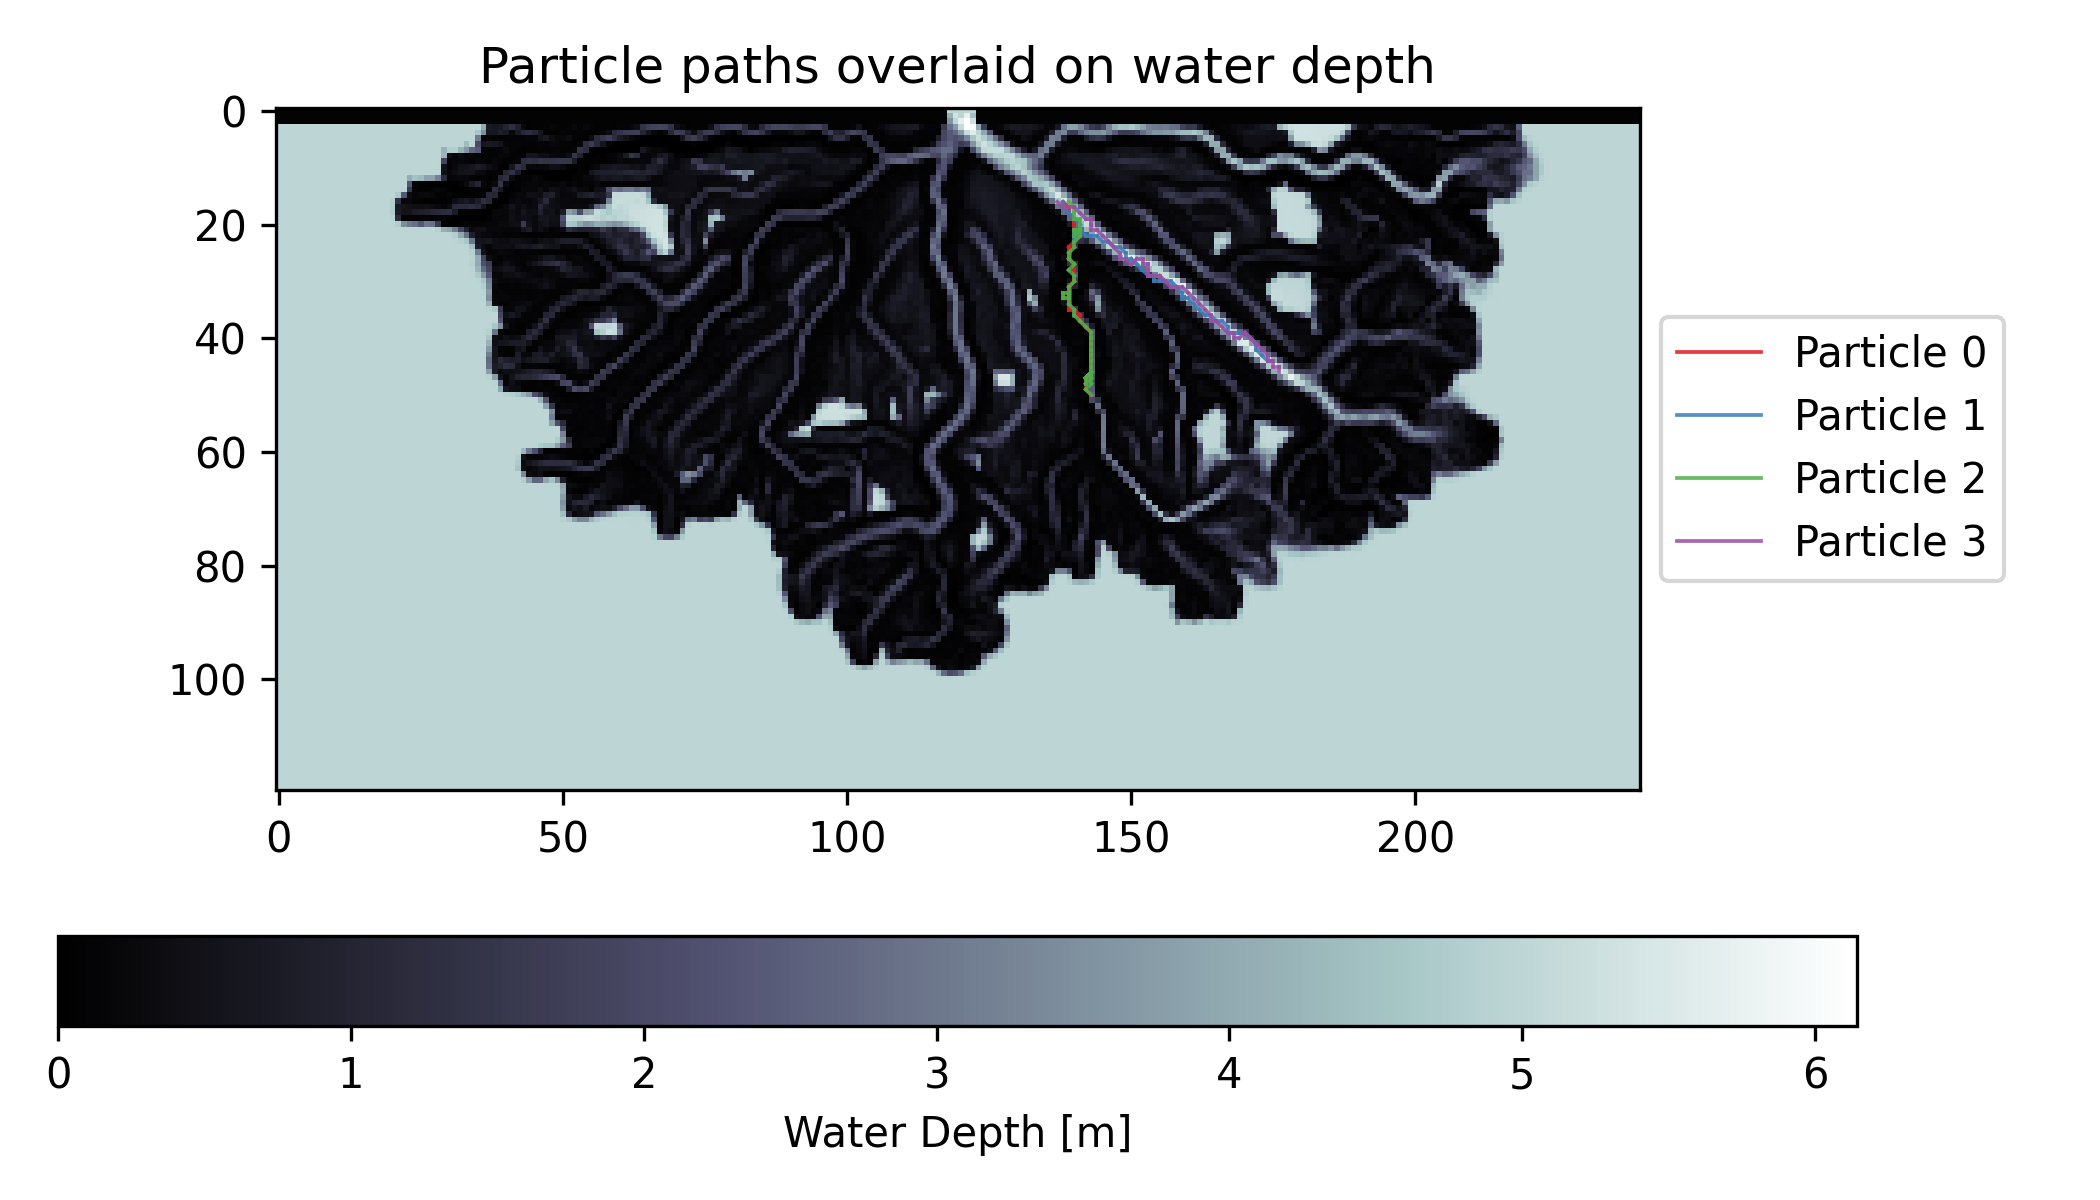
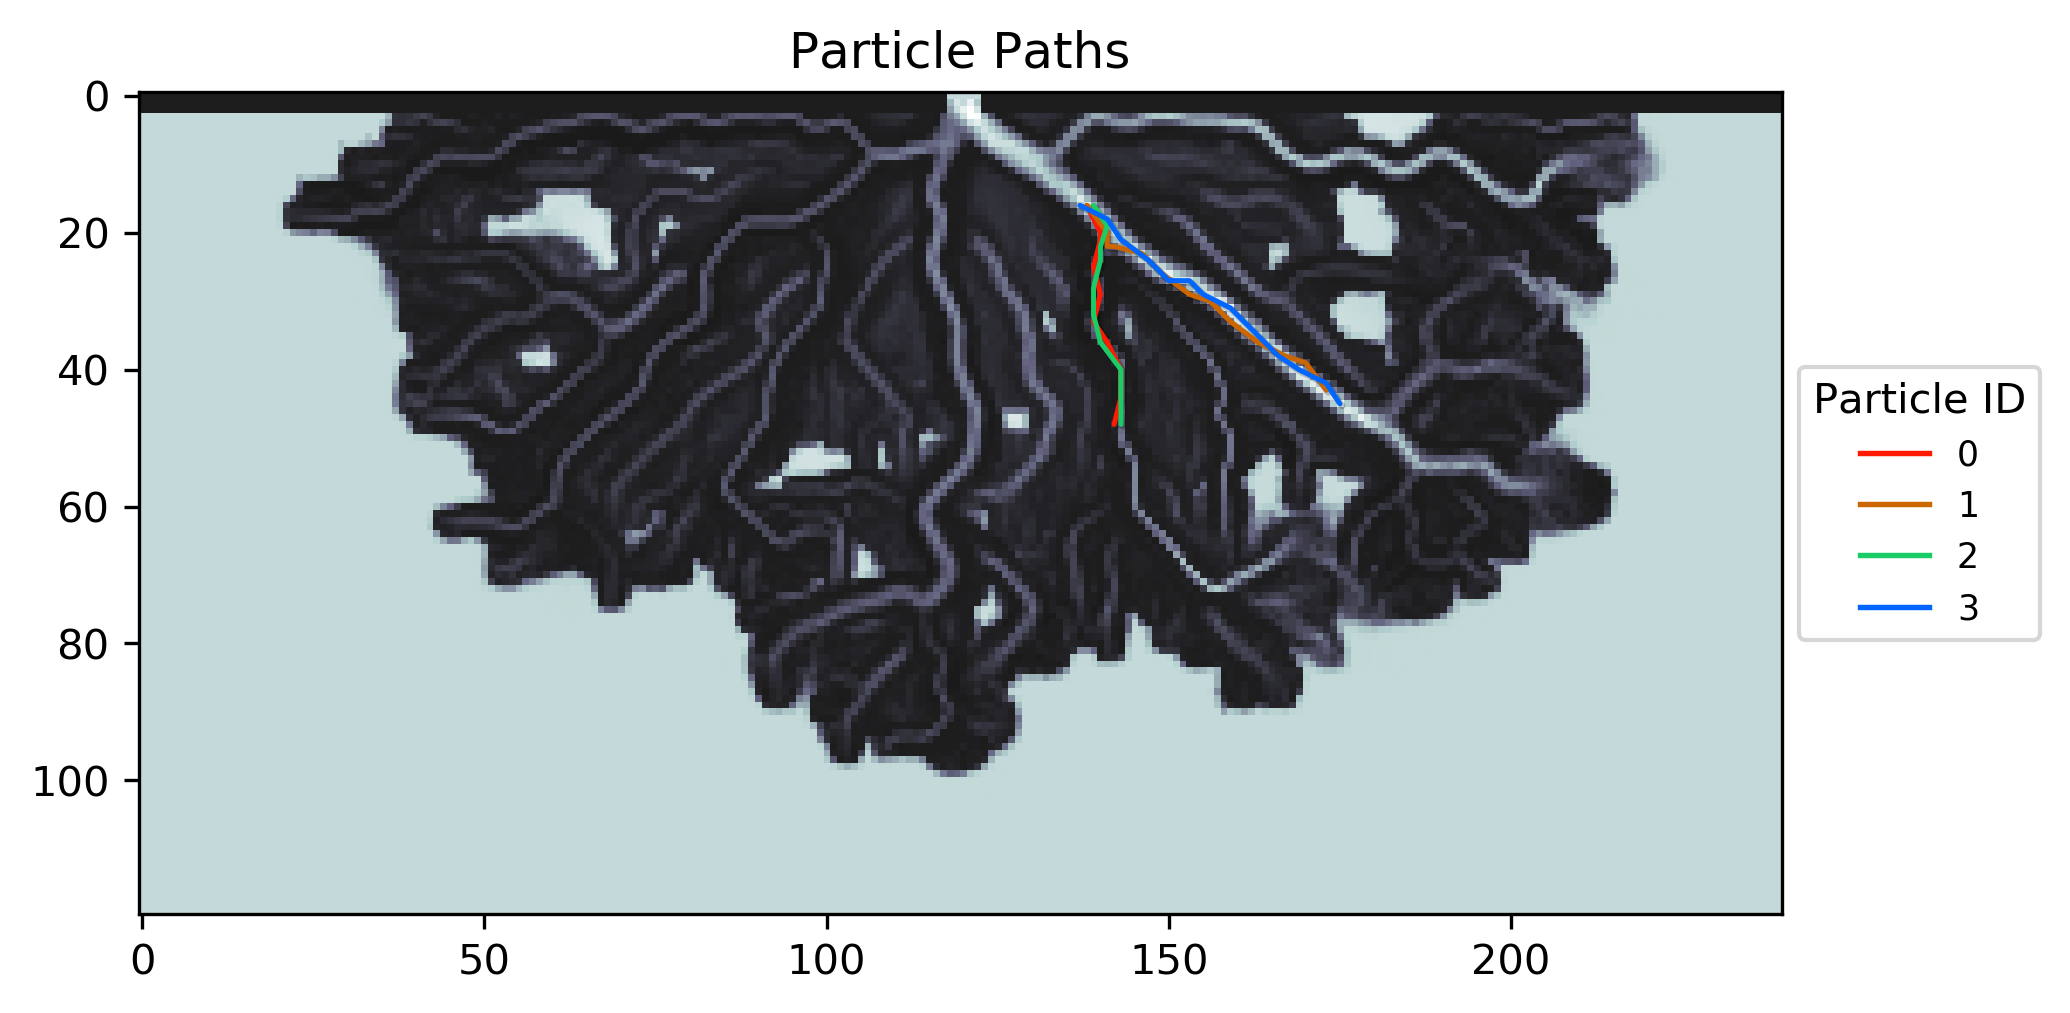
update examples and docs

diff --git a/dorado/routines.py b/dorado/routines.py
@@ -398,9 +398,9 @@ def get_state(walk_data, iteration=-1):
             times.append(walk_data['travel_times'][ii][-1])
             iter_exceeds_warning += 1
     
-    # if iter_exceeds_warning > 0:
-        # print('Warning: %s particles have not reached %s iterations' % \
-              # (iter_exceeds_warning, iteration))
+    if iter_exceeds_warning > 0:
+        print('Note: %s particles have not reached %s iterations' % \
+              (iter_exceeds_warning, iteration))
 
     return xinds, yinds, times
 
@@ -691,7 +691,7 @@ def animate_plots(start_val, end_val, folder_name):
 def draw_travel_path(grid, walk_data,
                      particles_to_follow='all',
                      output_file='travel_paths.png',
-                     frequency=1):
+                     interval=1, plot_legend=False):
     """Make a plot with the travel path of specified particles drawn out.
 
     **Inputs** :
@@ -714,10 +714,14 @@ def draw_travel_path(grid, walk_data,
         output_file : `str`, optional
             Path to save the output image to.
 
-        frequency : `int`, optional
+        interval : `int`, optional
             Determines how "smooth" each particle trajectory appears by
             skipping iterations between successive points on the path.
             Default it to show every iteration
+
+        plot_legend : `bool`, optional
+            Controls whether resulting plot includes a legend of particle IDs. 
+            Default is False
 
     **Outputs** :
 
@@ -726,6 +730,7 @@ def draw_travel_path(grid, walk_data,
     """
     import matplotlib.patheffects as path_effects
     from matplotlib.collections import LineCollection
+    from matplotlib.lines import Line2D
 
     if(particles_to_follow == 'all'):
         Np_tracer = len(walk_data['xinds'])
@@ -743,8 +748,8 @@ def draw_travel_path(grid, walk_data,
         c = np.random.rand(3,)
         colors.append([c[0], c[1], c[2], 0.9])
         
-        x = walk_data['xinds'][i][0::frequency]
-        y = walk_data['yinds'][i][0::frequency]
+        x = walk_data['xinds'][i][0::interval]
+        y = walk_data['yinds'][i][0::interval]
         lineseg = zip(y, x)
         paths.append(lineseg)
 
@@ -756,11 +761,14 @@ def draw_travel_path(grid, walk_data,
                                                                     linewidth=1.6),
                                       path_effects.Normal()])
     ax.add_collection(lc)
-    # FIXME: Need to figure out generalizable legend for any # of particles
+    if plot_legend:
+        custom_lines = [Line2D([0], [0], color=c, lw=1.2) for c in colors]
+        ax.legend(custom_lines, [str(i) for i in particles_to_follow],
+                  loc='center left', bbox_to_anchor=(1, 0.5), fontsize='small',
+                  title='Particle ID')
     plt.axis('scaled')
     plt.tight_layout()
     plt.savefig(output_file, bbox_inches='tight')
-    plt.close()
 
 
 def plot_state(grid, walk_data, iteration=-1, target_time=None, c='b'):
@@ -812,7 +820,7 @@ def plot_state(grid, walk_data, iteration=-1, target_time=None, c='b'):
 def snake_plots(particle,
                 num_steps,
                 folder_name=None,
-                frequency=4,
+                interval=4,
                 tail_length=12,
                 rgba_start=[1, 0.4, 0.2, 1],
                 rgba_end=[1, 0.3, 0.1, 0]):
@@ -836,14 +844,14 @@ def snake_plots(particle,
         folder_name : `str`, optional
             Path to folder in which to save output plots
 
-        frequency : `int`, optional
+        interval : `int`, optional
             Interval of iterations to skip over between each plot. Also
             determines how "smooth" each particle trajectory appears. 
-            Default it to show every 4th iteration
+            Default is to show every 4th iteration
 
         tail_length : `int`, optional
             Number of previous locations to show in the "tail" behind
-            each particle. Oldest location will be frequency*tail_length
+            each particle. Oldest location will be interval*tail_length
             iterations before the current iteration. Default is 12
 
         rgba_start : `list`, optional
@@ -882,10 +890,10 @@ def snake_plots(particle,
                                   tail_length).T
 
     # Loop through specified number of steps
-    for ii in list(range(frequency, num_steps*frequency, frequency)):
+    for ii in list(range(interval, num_steps*interval, interval)):
         paths = [] # Initialize place to store paths
         # Recent chunk of the path we're going to plot
-        chunks = list(range(ii, ii-tail_length*frequency, -1*frequency))
+        chunks = list(range(ii, ii-tail_length*interval, -1*interval))
 
         # Create figure for this step
         fig = plt.figure(figsize=(7, 4), dpi=300)
@@ -900,16 +908,16 @@ def snake_plots(particle,
             lineseg = zip(y, x)
             newest_segment = lineseg[0:2] # Use first segment as backup
 
-            # Check that this partice had enough iterations
+            # Check that this particle had enough iterations
             if ii > len(lineseg):
                 continue # If not, skip
 
             # Loop through history in reverse order and grab segments
             for c in chunks:
                 # Check to make sure low index isn't below zero
-                if c-frequency-1 >= 0:
+                if c-interval-1 >= 0:
                     # Store the most recent segment with a valid index
-                    newest_segment = lineseg[c-frequency-1:c:frequency]
+                    newest_segment = lineseg[c-interval-1:c:interval]
                     paths.append(newest_segment)
                 else:
                     # If indices are below zero, we've reached the beginning

diff --git a/examples/draw_deltarcm_particle_paths.py b/examples/draw_deltarcm_particle_paths.py
@@ -17,4 +17,5 @@ all_walk_data = json.load(open('steady_deltarcm_example'+os.sep+'data'+os.sep+'d
 
 # Draw the travel path
 draw_travel_path(depth, all_walk_data, [0, 1, 2, 3],
-                 'steady_deltarcm_example'+os.sep+'data'+os.sep+'travel_paths.png')
+                 'steady_deltarcm_example'+os.sep+'figs'+os.sep+'travel_paths.png',
+                 interval=4, plot_legend=True)

diff --git a/examples/draw_anuga_particle_paths.py b/examples/draw_anuga_particle_paths.py
@@ -17,4 +17,5 @@ all_walk_data = json.load(open('steady_anuga_example'+os.sep+'data'+os.sep+'data
 
 # Draw the travel path
 draw_travel_path(depth, all_walk_data, [0, 1, 2, 3],
-                 'steady_anuga_example'+os.sep+'data'+os.sep+'travel_paths.png')
+                 'steady_anuga_example'+os.sep+'figs'+os.sep+'travel_paths.png',
+                 interval=2, plot_legend=True)

diff --git a/docs/source/examples/example08.rst b/docs/source/examples/example08.rst
@@ -19,11 +19,12 @@ First run :ref:`example01`, and then we can access and use the particle travel i
    >>> depth = data['depth']
    >>> all_walk_data = json.load(open('steady_anuga_example'+os.sep+'data'+os.sep+'data.txt'))
 
-Now we will apply the `draw_travel_path` function. In this example we are going to visualize the travel paths of the first 4 particles, indicated by the list we are providing to the `draw_travel_path` function.
+Now we will apply the `draw_travel_path` function. In this example we are going to visualize the travel paths of the first 4 particles, indicated by the list we are providing to the `draw_travel_path` function. We will show every other iteration to visually simplify the path, controlled by `interval` parameter.
 
 .. doctest::
 
-   >>> draw_travel_path(depth, all_walk_data, [0,1,2,3],
-   >>>                  'steady_anuga_example'+os.sep+'data'+os.sep+'travel_paths.png')
+   >>> draw_travel_path(depth, all_walk_data, [0, 1, 2, 3],
+   >>>           'steady_anuga_example'+os.sep+'figs'+os.sep+'travel_paths.png',
+   >>>           interval=2, plot_legend=True)
 
 .. image:: images/example08/travel_paths.png

diff --git a/docs/source/examples/example07.rst b/docs/source/examples/example07.rst
@@ -19,11 +19,12 @@ First run :ref:`example02`, and then we can access and use the particle travel i
    >>> depth = data['depth']
    >>> all_walk_data = json.load(open('steady_deltarcm_example'+os.sep+'data'+os.sep+'data.txt'))
 
-Now we will apply the `draw_travel_path` function. In this example we are going to visualize the travel paths of the first 4 particles, indicated by the list we are providing to the `draw_travel_path` function.
+Now we will apply the `draw_travel_path` function. In this example we are going to visualize the travel paths of the first 4 particles, indicated by the list we are providing to the `draw_travel_path` function. We will show every 4th iteration to visually simplify the path, controlled by `interval` parameter.
 
 .. doctest::
 
    >>> draw_travel_path(depth, all_walk_data, [0, 1, 2, 3],
-   >>>                  'steady_deltarcm_example'+os.sep+'data'+os.sep+'travel_paths.png')
+   >>>           'steady_deltarcm_example'+os.sep+'figs'+os.sep+'travel_paths.png',
+   >>>           interval=2, plot_legend=True)
 
 .. image:: images/example07/travel_paths.png
